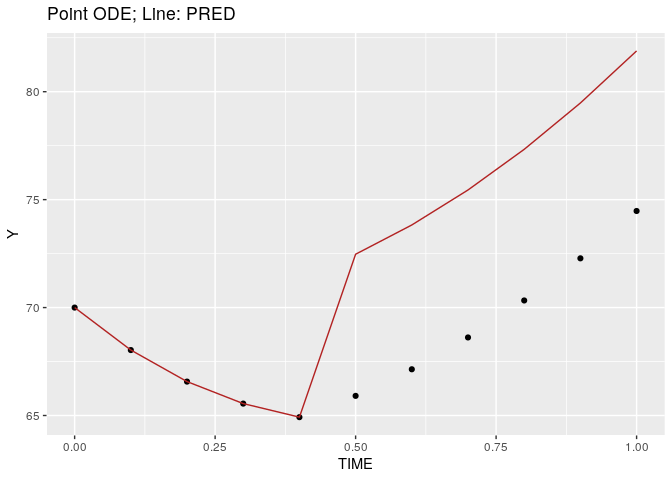
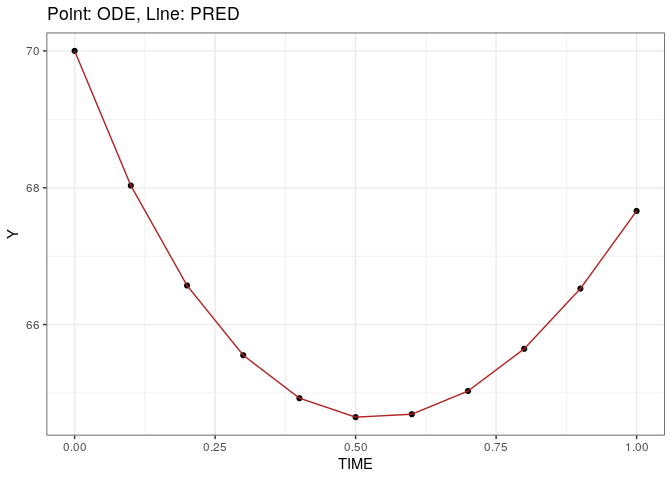
re-run with comparison against mrgsolve

diff --git a/claret/claret.md b/claret/claret.md
@@ -2,23 +2,28 @@
 -   [1 Input data](#1-input-data)
     -   [1.1 Constant dose](#11-constant-dose)
     -   [1.2 Time-varying dose](#12-time-varying-dose)
--   [2 Constant dose](#2-constant-dose)
-    -   [2.1 ODE](#21-ode)
-    -   [2.2 PRED](#22-pred)
--   [3 Time-varying dose](#3-time-varying-dose)
+-   [2 mrgsolve - ode](#2-mrgsolve---ode)
+-   [3 Constant dose](#3-constant-dose)
     -   [3.1 ODE](#31-ode)
     -   [3.2 PRED](#32-pred)
--   [4 Plots](#4-plots)
-    -   [4.1 Constant dose](#41-constant-dose)
-    -   [4.2 Time-varying](#42-time-varying)
--   [5 Spot check analytical
-    solution](#5-spot-check-analytical-solution)
+-   [4 Time-varying dose](#4-time-varying-dose)
+    -   [4.1 ODE](#41-ode)
+    -   [4.2 PRED](#42-pred)
+-   [5 Plots](#5-plots)
+    -   [5.1 Constant dose](#51-constant-dose)
+    -   [5.2 Time-varying](#52-time-varying)
+    -   [5.3 Time-varying, ODE,
+        NM/mrgsolve](#53-time-varying-ode-nmmrgsolve)
+-   [6 Spot check analytical
+    solution](#6-spot-check-analytical-solution)
 
 ``` r
 library(dplyr)
 library(data.table)
 library(here)
 library(ggplot2)
+theme_set(theme_bw())
+library(mrgsolve)
 
 source(here("shared/tools.R"))
 setwd(here("claret"))
@@ -53,37 +58,49 @@ fwrite(data, file = here("claret/data/claret001.csv"), na = '.', quote = FALSE)
 fwrite(data2, file = here("claret/data/claret002.csv"), na = '.', quote = FALSE)
 ```
 
-# 2 Constant dose
+# 2 mrgsolve - ode
 
-## 2.1 ODE
+``` r
+mod <- mread(here("claret/ode.txt")) %>% zero_re()
+```
+
+    ## Building ode_txt ... done.
+
+``` r
+z <- mrgsim(mod, data2, output = "df")
+```
+
+# 3 Constant dose
+
+## 3.1 ODE
 
 ``` r
 a <- psn_execute("c001")
 ```
 
-## 2.2 PRED
+## 3.2 PRED
 
 ``` r
 b <- psn_execute("c002")
 ```
 
-# 3 Time-varying dose
+# 4 Time-varying dose
 
-## 3.1 ODE
+## 4.1 ODE
 
 ``` r
 c <- psn_execute("c003")
 ```
 
-## 3.2 PRED
+## 4.2 PRED
 
 ``` r
 d <- psn_execute("c004")
 ```
 
-# 4 Plots
+# 5 Plots
 
-## 4.1 Constant dose
+## 5.1 Constant dose
 
 ``` r
 ggplot() + 
@@ -92,9 +109,9 @@ ggplot() +
   ggtitle("Point: ODE, Line: PRED")
 ```
 
-![](claret_files/figure-gfm/unnamed-chunk-8-1.png)<!-- -->
+![](claret_files/figure-gfm/unnamed-chunk-9-1.png)<!-- -->
 
-## 4.2 Time-varying
+## 5.2 Time-varying
 
 ``` r
 ggplot() + 
@@ -103,9 +120,20 @@ ggplot() +
   ggtitle("Point ODE; Line: PRED")
 ```
 
-![](claret_files/figure-gfm/unnamed-chunk-9-1.png)<!-- -->
+![](claret_files/figure-gfm/unnamed-chunk-10-1.png)<!-- -->
 
-# 5 Spot check analytical solution
+## 5.3 Time-varying, ODE, NM/mrgsolve
+
+``` r
+ggplot() + 
+  geom_point(data = c, aes(TIME, Y)) + 
+  geom_line(data = z,  aes(TIME, RESP), color = "firebrick") + 
+  ggtitle("Point nonmem; Line: mrgsolve")
+```
+
+![](claret_files/figure-gfm/unnamed-chunk-11-1.png)<!-- -->
+
+# 6 Spot check analytical solution
 
 ``` r
 KG = 0.6
@@ -159,4 +187,4 @@ filter(d, TIME==1.0)
 ```
 
     ##    ID TIME      Y
-    ## 1:  1    1 81.889
+    ## 1:  1    1 67.661
